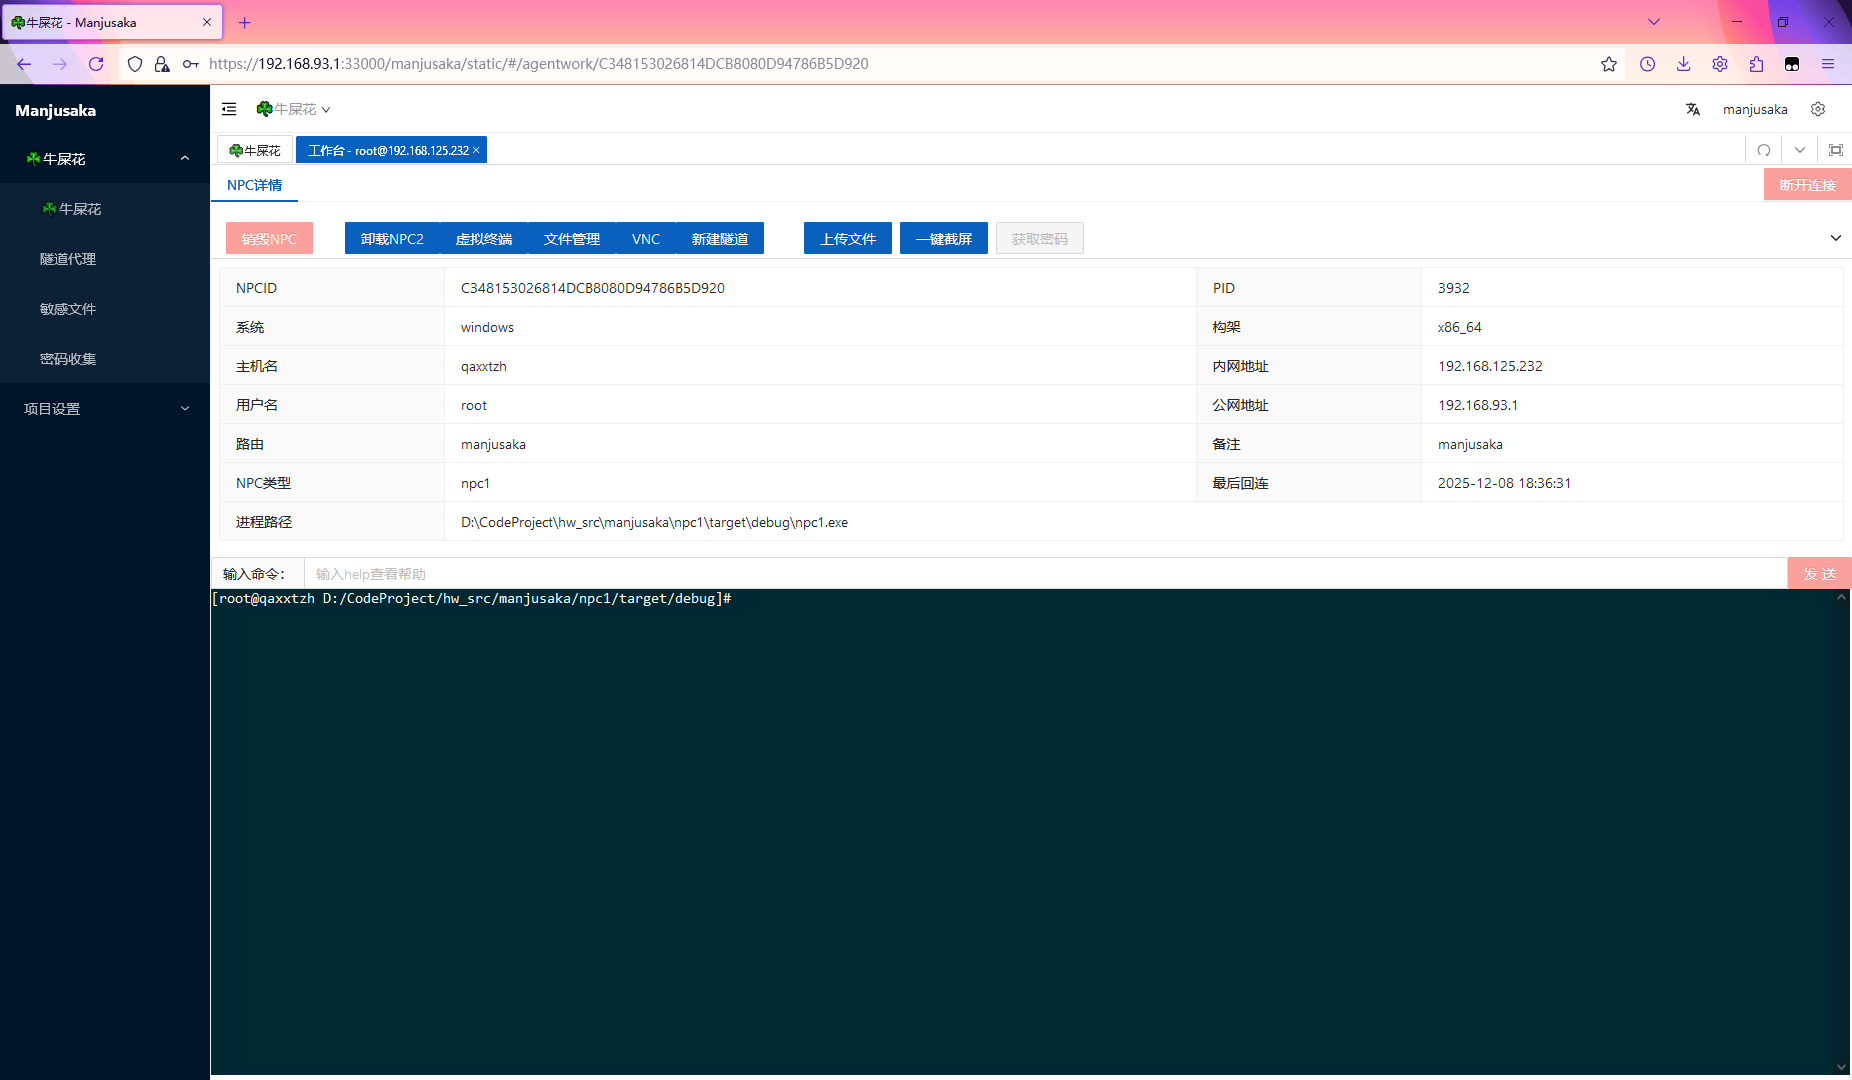
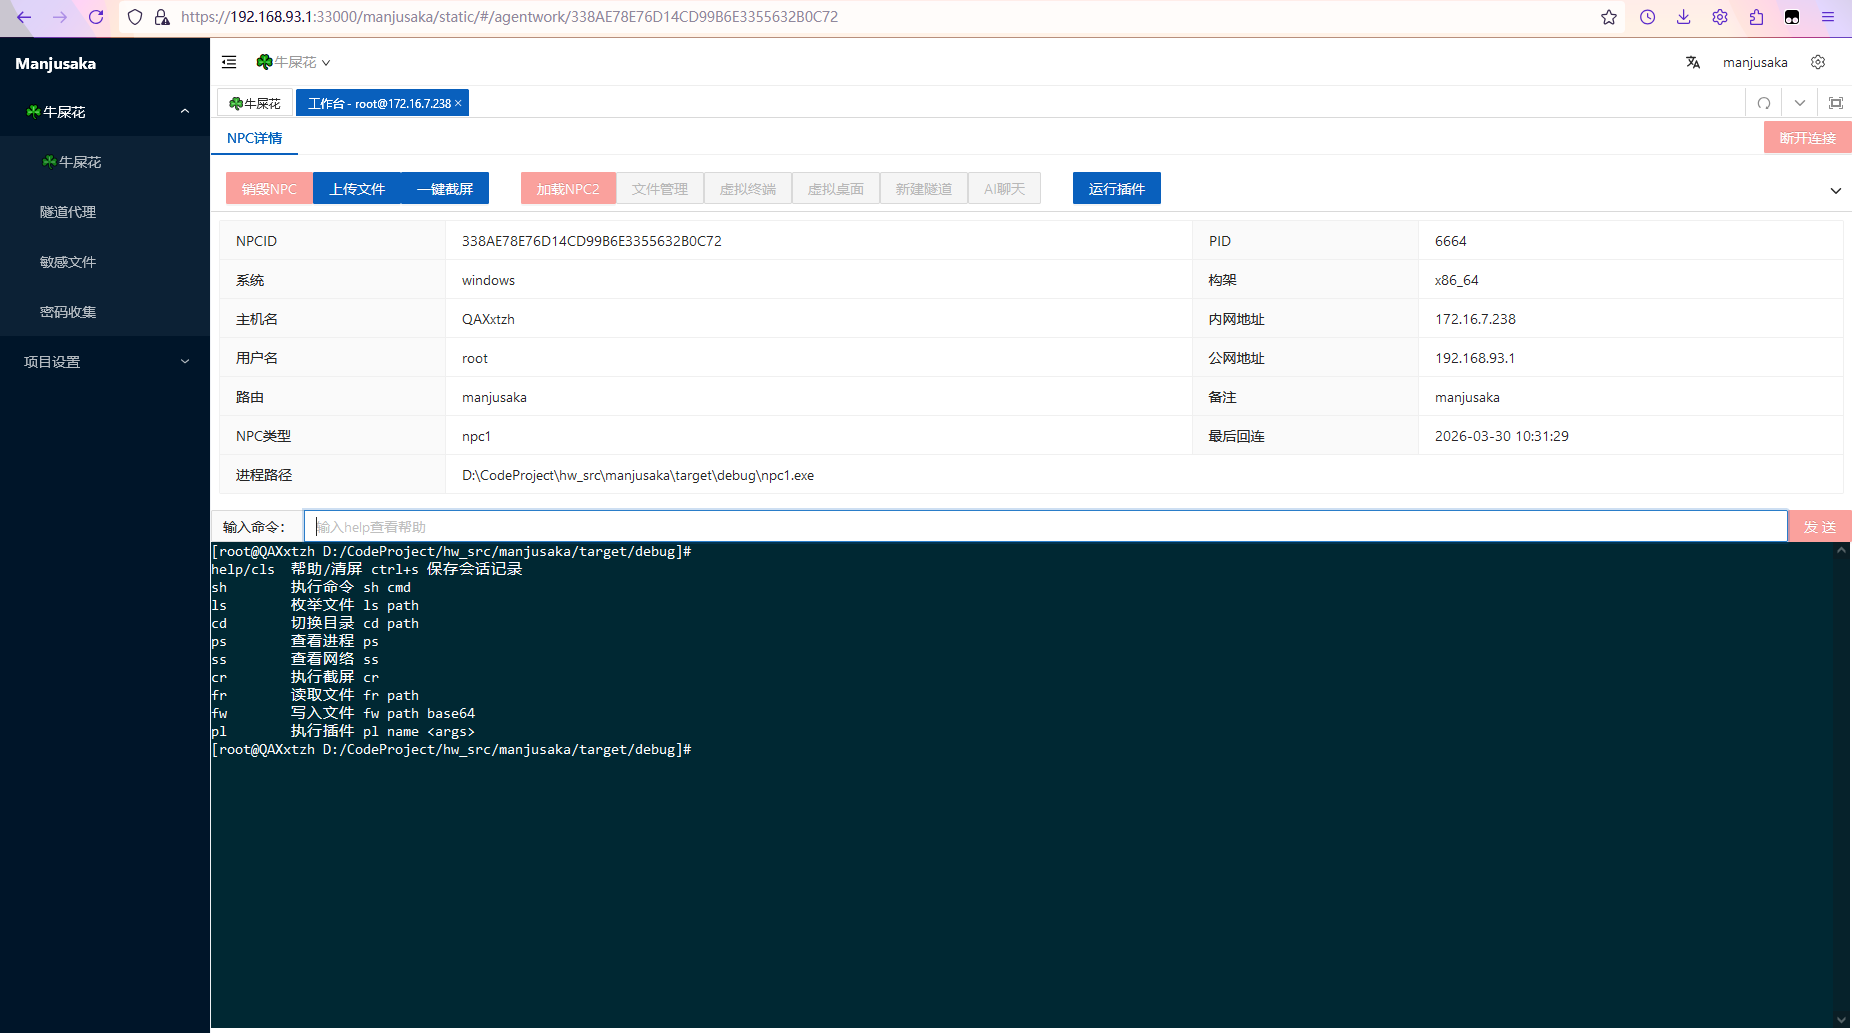
更新截图

diff --git a/README.md b/README.md
@@ -7,10 +7,15 @@
 ![License](https://img.shields.io/badge/License-GPL--3.0-blue)
 ![Build Status](https://img.shields.io/badge/build-passing-brightgreen)
 ![Platform](https://img.shields.io/badge/platform-Windows%20%7C%20Linux%20%7C%20macOS-lightgrey)
+
+**高性能 · 高安全 · 全平台 · 开源免费**
+
+### 📈 Star 历史曲线
+
 ![GitHub stars](https://img.shields.io/github/stars/ydhcui/manjusaka?style=social)
 ![GitHub forks](https://img.shields.io/github/forks/ydhcui/manjusaka?style=social)
 
-**高性能 · 高安全 · 全平台 · 开源免费**
+[![Star History Chart](https://api.star-history.com/svg?repos=ydhcui/manjusaka&type=Date)](https://star-history.com/#ydhcui/manjusaka&Date)
 
 </div>
 
@@ -19,11 +24,7 @@
 
 https://github.com/ydhcui/manjusaka
 
-Manjusaka（牛屎虾）是一个基于 Rust 语言开发的现代化远程管理平台，采用微服务架构设计，提供高性能、高安全性的远程管理解决方案。项目名称来源于佛教中的"曼珠沙华"，象征着连接两个世界的桥梁，寓意着本平台作为连接管理端与被管理端的桥梁作用。
-
-### 📈 Star 历史曲线
-
-[![Star History Chart](https://api.star-history.com/svg?repos=ydhcui/manjusaka&type=Date)](https://star-history.com/#ydhcui/manjusaka&Date)
+Manjusaka（牛屎虾）——基于 Rust 的高性能远程管理平台，以 AI 决策与执行分离架构为核心，实现全平台支持、插件生态与趣味交互的完美融合。
 
 ### ✨ 特性
 
